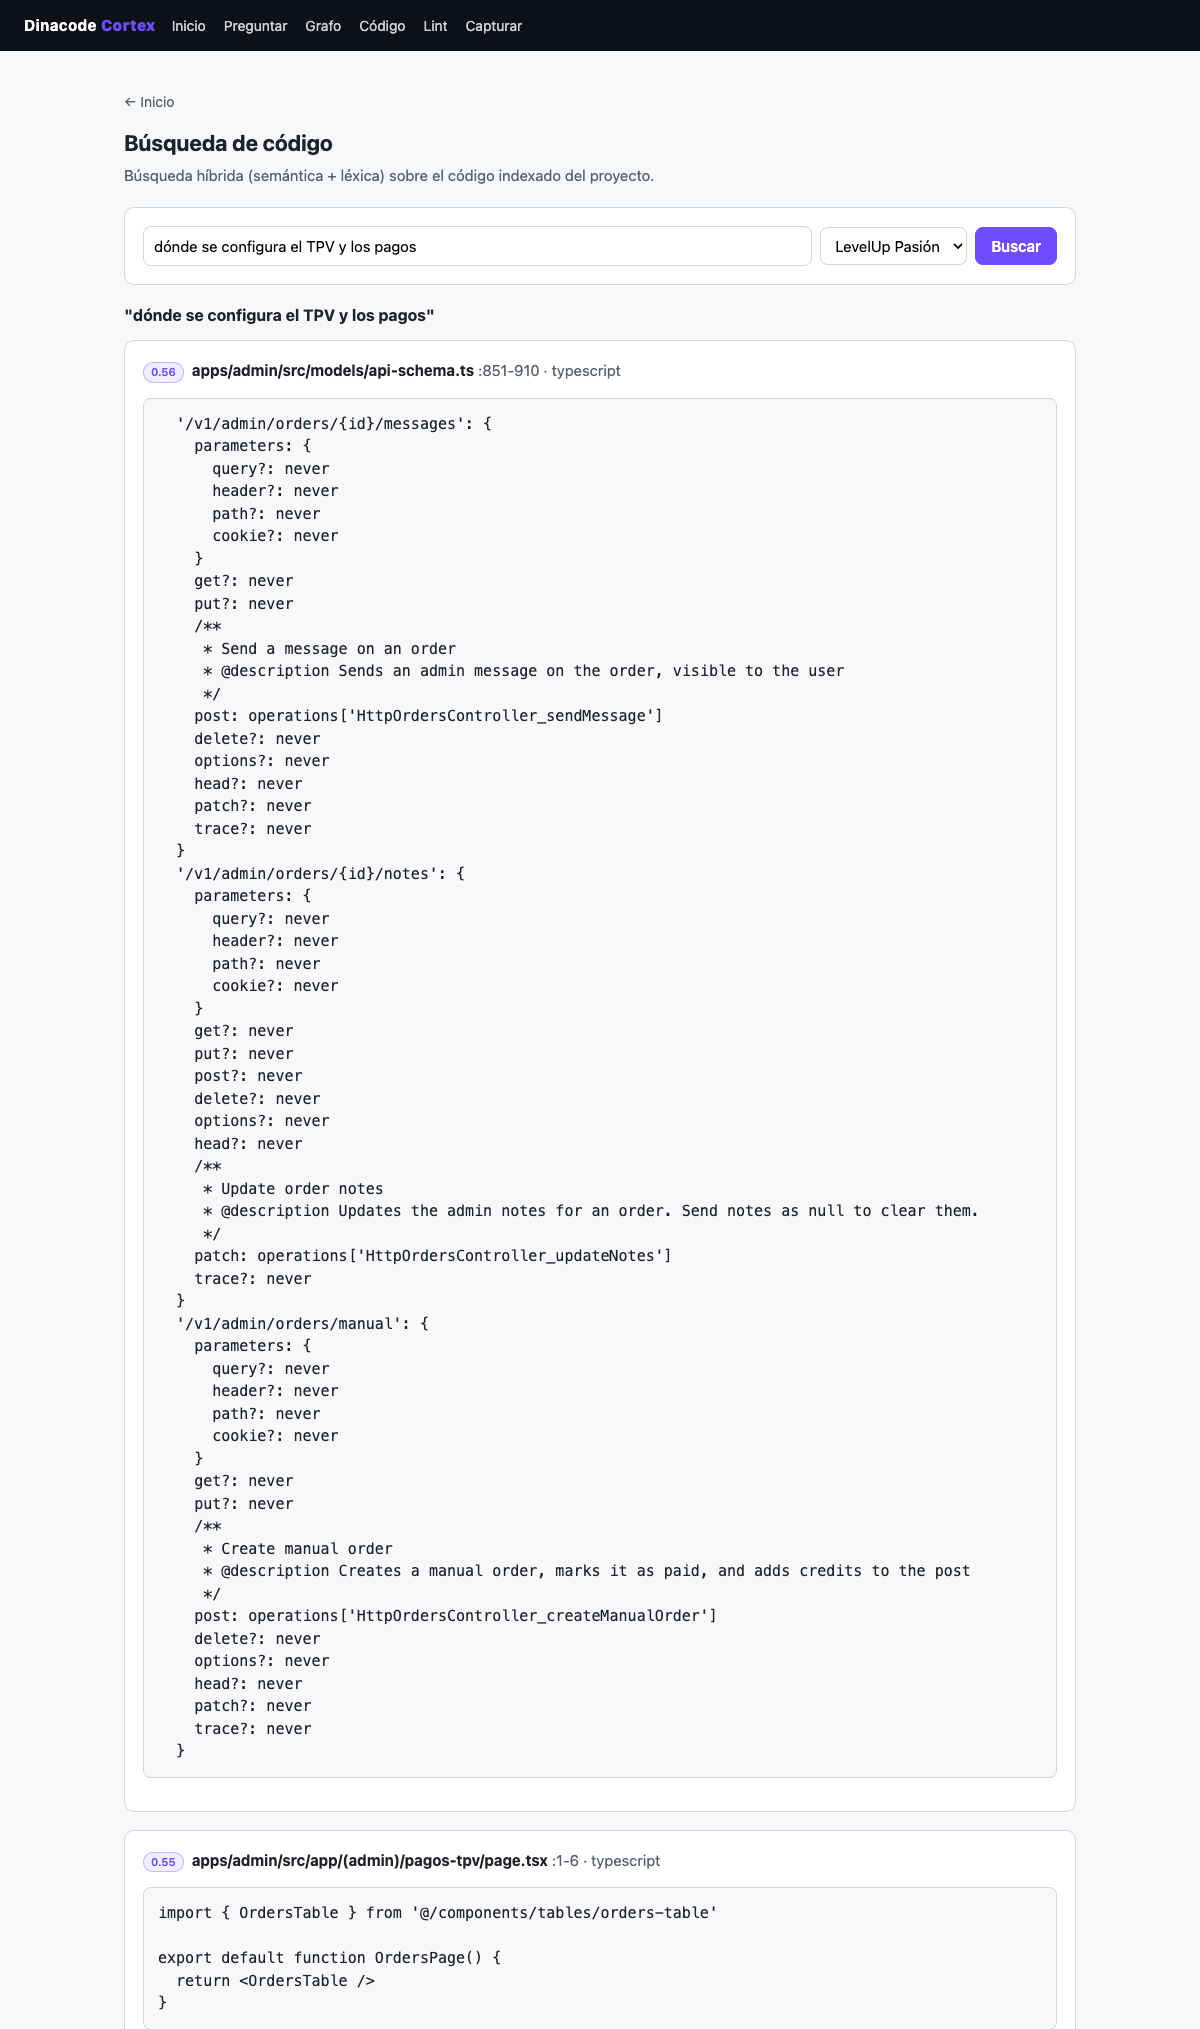
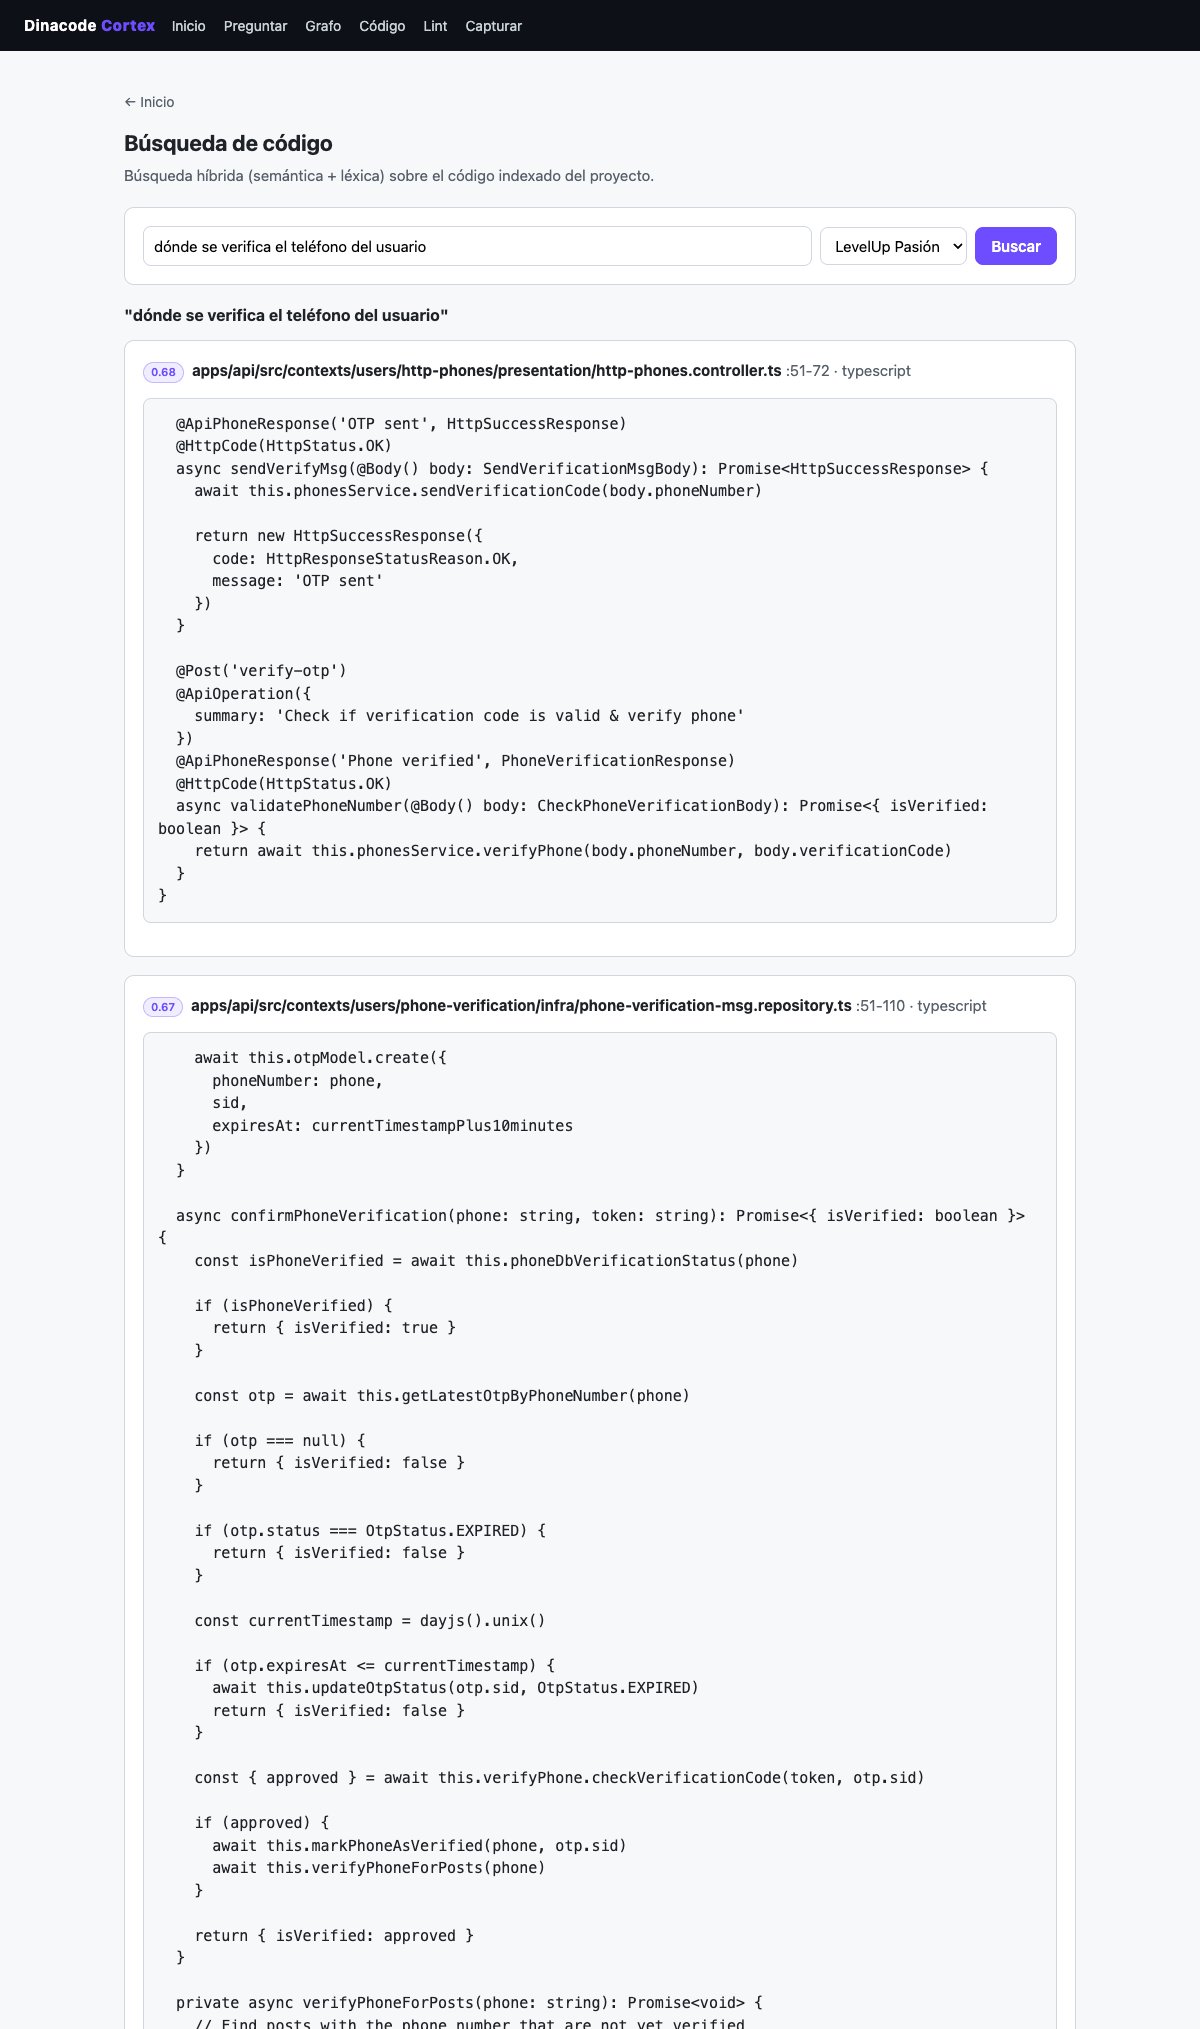
feat: excluir ficheros generados del índice de código
Mejora la calidad de search_project_code: el walker ahora salta ficheros
generados por nombre (api-schema*, *.gen/*.generated, *.pb.ts, *.d.ts) y por
marcador de cabecera (@generated, openapi-typescript, "do not edit"…).

Reindexado levelup: 914 ficheros → 1712 chunks (antes 1930; fuera los api-schema
generados que dominaban el ranking). Verificado: "verifica el teléfono" ahora
devuelve http-phones.controller.ts y phone-verification-msg.repository.ts (código
real) en vez de los schemas generados. Captura actualizada.

diff --git a/packages/core/src/code.ts b/packages/core/src/code.ts
@@ -1,4 +1,4 @@
-import { readdirSync, readFileSync, statSync } from "node:fs";
+import { closeSync, openSync, readSync, readdirSync, readFileSync, statSync } from "node:fs";
 import { join, relative, extname, basename } from "node:path";
 import { getSql, toVectorLiteral, type Sql } from "@cortex/database";
 import { getEmbeddingProvider, type EmbeddingProvider } from "@cortex/embeddings";
@@ -29,10 +29,31 @@ function ignoredFile(name: string): boolean {
   return (
     name.endsWith(".d.ts") ||
     name.endsWith(".min.js") ||
+    name.endsWith(".pb.ts") ||
+    /\.(gen|generated)\.[tj]sx?$/.test(name) ||
+    name.startsWith("api-schema") || // clientes OpenAPI generados (yarn update-schema)
     name === "pnpm-lock.yaml" ||
     name === "package-lock.json" ||
     name === "yarn.lock"
   );
+}
+
+const GENERATED_RE =
+  /@generated|auto-?generated|automatically generated|do not edit|openapi-typescript|code generated by|this file (is|was) generated/i;
+
+/** Heurística: ¿la cabecera del fichero indica que es generado? (lee ~2KB). */
+function looksGenerated(absPath: string): boolean {
+  let fd: number | undefined;
+  try {
+    fd = openSync(absPath, "r");
+    const buf = Buffer.alloc(2048);
+    const n = readSync(fd, buf, 0, 2048, 0);
+    return GENERATED_RE.test(buf.toString("utf8", 0, n));
+  } catch {
+    return false;
+  } finally {
+    if (fd !== undefined) closeSync(fd);
+  }
 }
 
 export interface CodeFile {
@@ -66,6 +87,7 @@ export function walkRepo(root: string): CodeFile[] {
       } catch {
         continue;
       }
+      if (looksGenerated(full)) continue;
       out.push({ absPath: full, relPath: relative(root, full), language });
     }
   };
